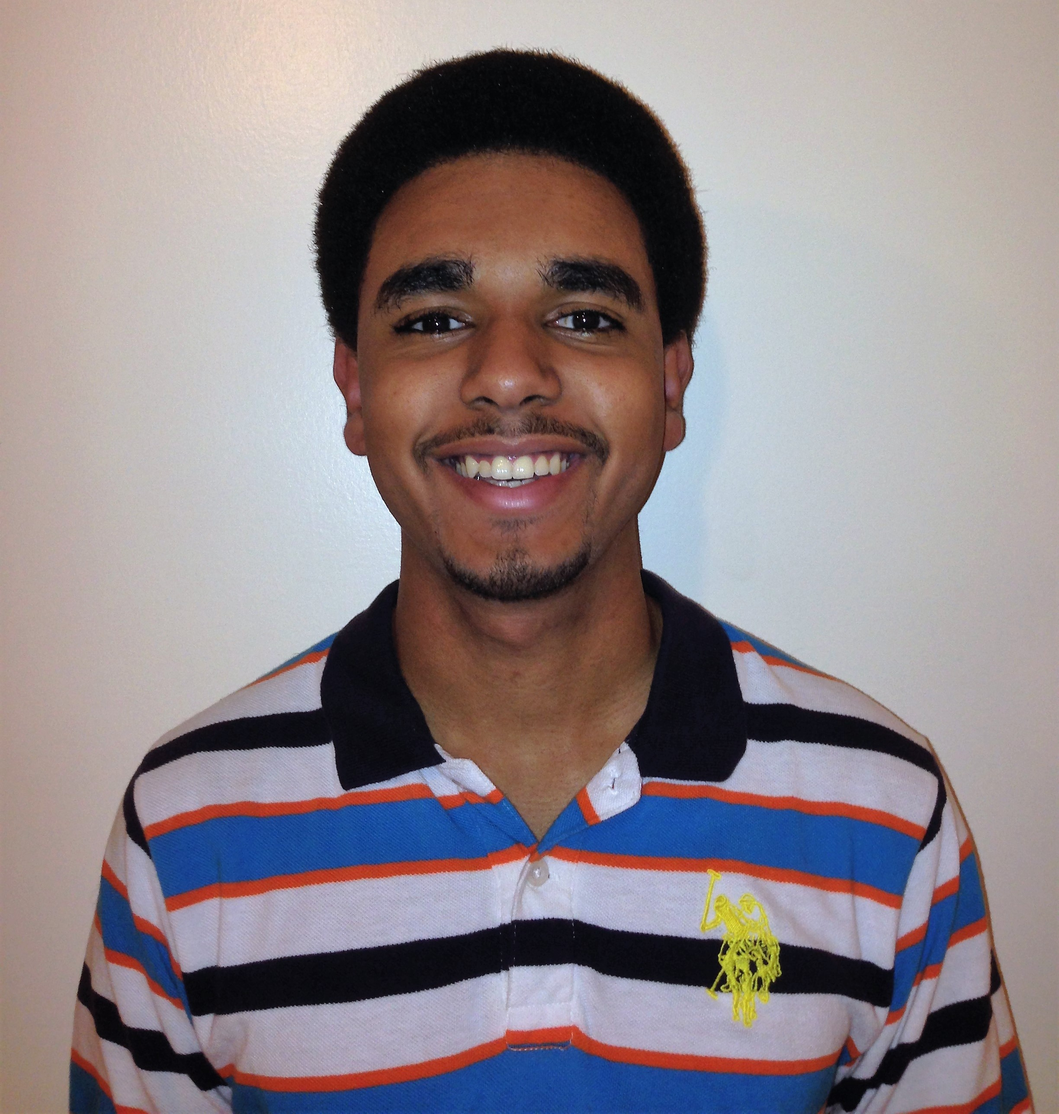
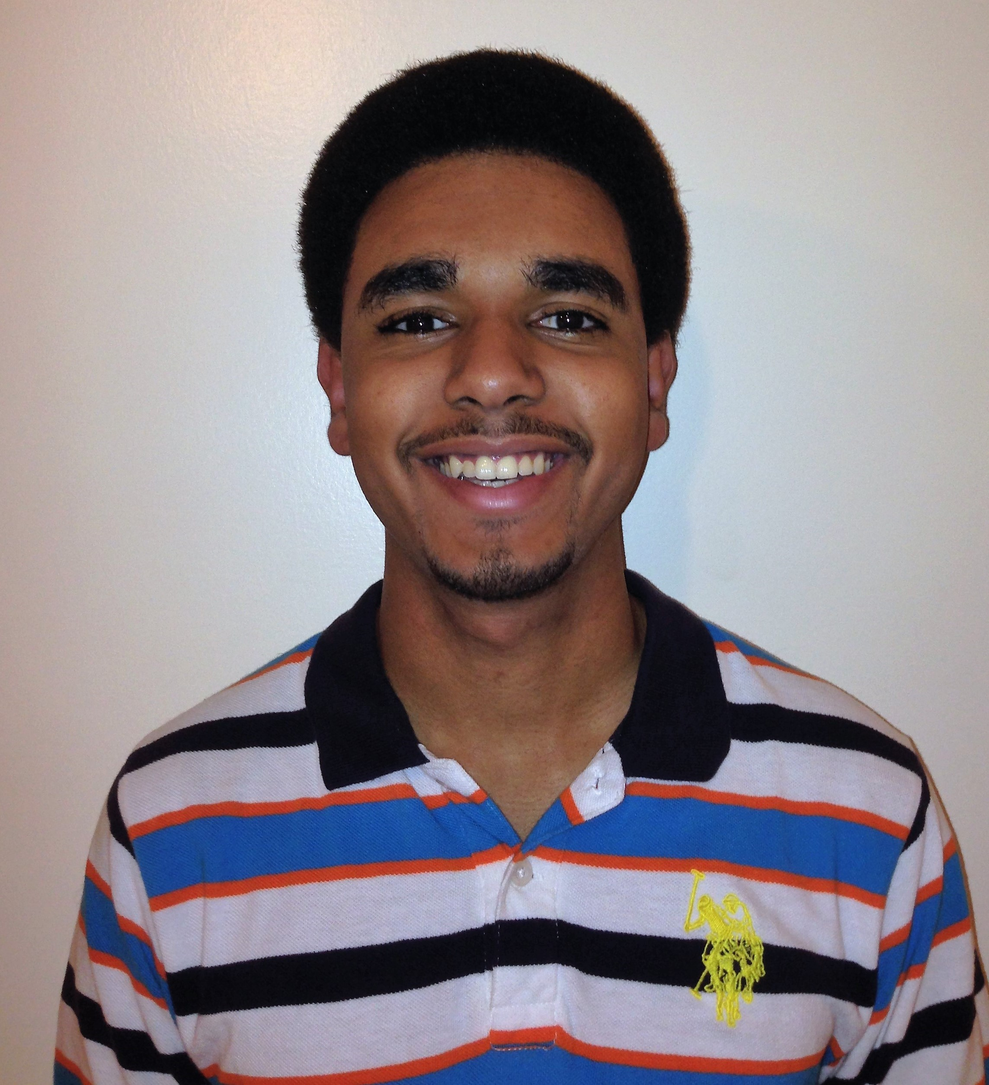
Made Image into circle adn aded basic intro

Changed region(s): [[0.031, 0.0311, 1.0, 1.0]]

diff --git a/index.html b/index.html
@@ -12,25 +12,33 @@
 	<script src="libs/anime/anime.js" type="text/javascript"></script>
 	<script src="js/main.js" type="text/javascript"></script>
 </head>
-<body>
-	<div class="container">
-		<div class="row">
-			<div class="col-md-4">
-			<p>Hello</p>
+<body style="background-color: skyblue;">
+	<div class="container-fluid">
+		<!-- First/Intro Row -->
+		<div class="row" style="background-color: blue;">
+			<div class="col-md-5">
+			<h1 style="font-size:80px;">Hi, I am <br style="margin-top:100px;"> Adonis Pujols</h1>
 			</div>
-			<div class="col-md-8">
-			<img style="height:300px;" src="assets/profilePic.jpg">
-			<h1 >Hi, I am <br> Adonis Pujols</h1>
+			<div class="col-md-7">
+			<!-- Profile Picture -->
+			<img class="img-responsive" style="width:400px; border-radius: 50%; margin-top:20px;" src="assets/profilePic.jpg" alt="Picture of Me">
+			<p>empty</p>
 			</div>
+			<!-- <div class="col-md-4">
+			<p>empty</p>
+			</div> -->
 		</div>
+		<!-- Summary/Profile Row -->
 		<div class="row">
-			<div class="col-md-4">
-			<p>Hello</p>
+			<!-- Placeholders to Fix Text Positioning -->
+			<div class="col-md-1">
 			</div>
-			<div class="col-md-8">
-			<img style="height:300px;" src="assets/profilePic.jpg">
-			<h1 >Hi, I am <br> Adonis Pujols</h1>
+			<!-- Short Intro -->
+			<div class="col-md-5">
+				<h1>Who am I?</h1>
+				<p>I am Adonis Pujols, a senior at the Lawrenceville School. I love coding, philosophy, and writing!</p>
 			</div>
+			<div class="col-md-6"></div>
 		</div>
 	</div>
 
